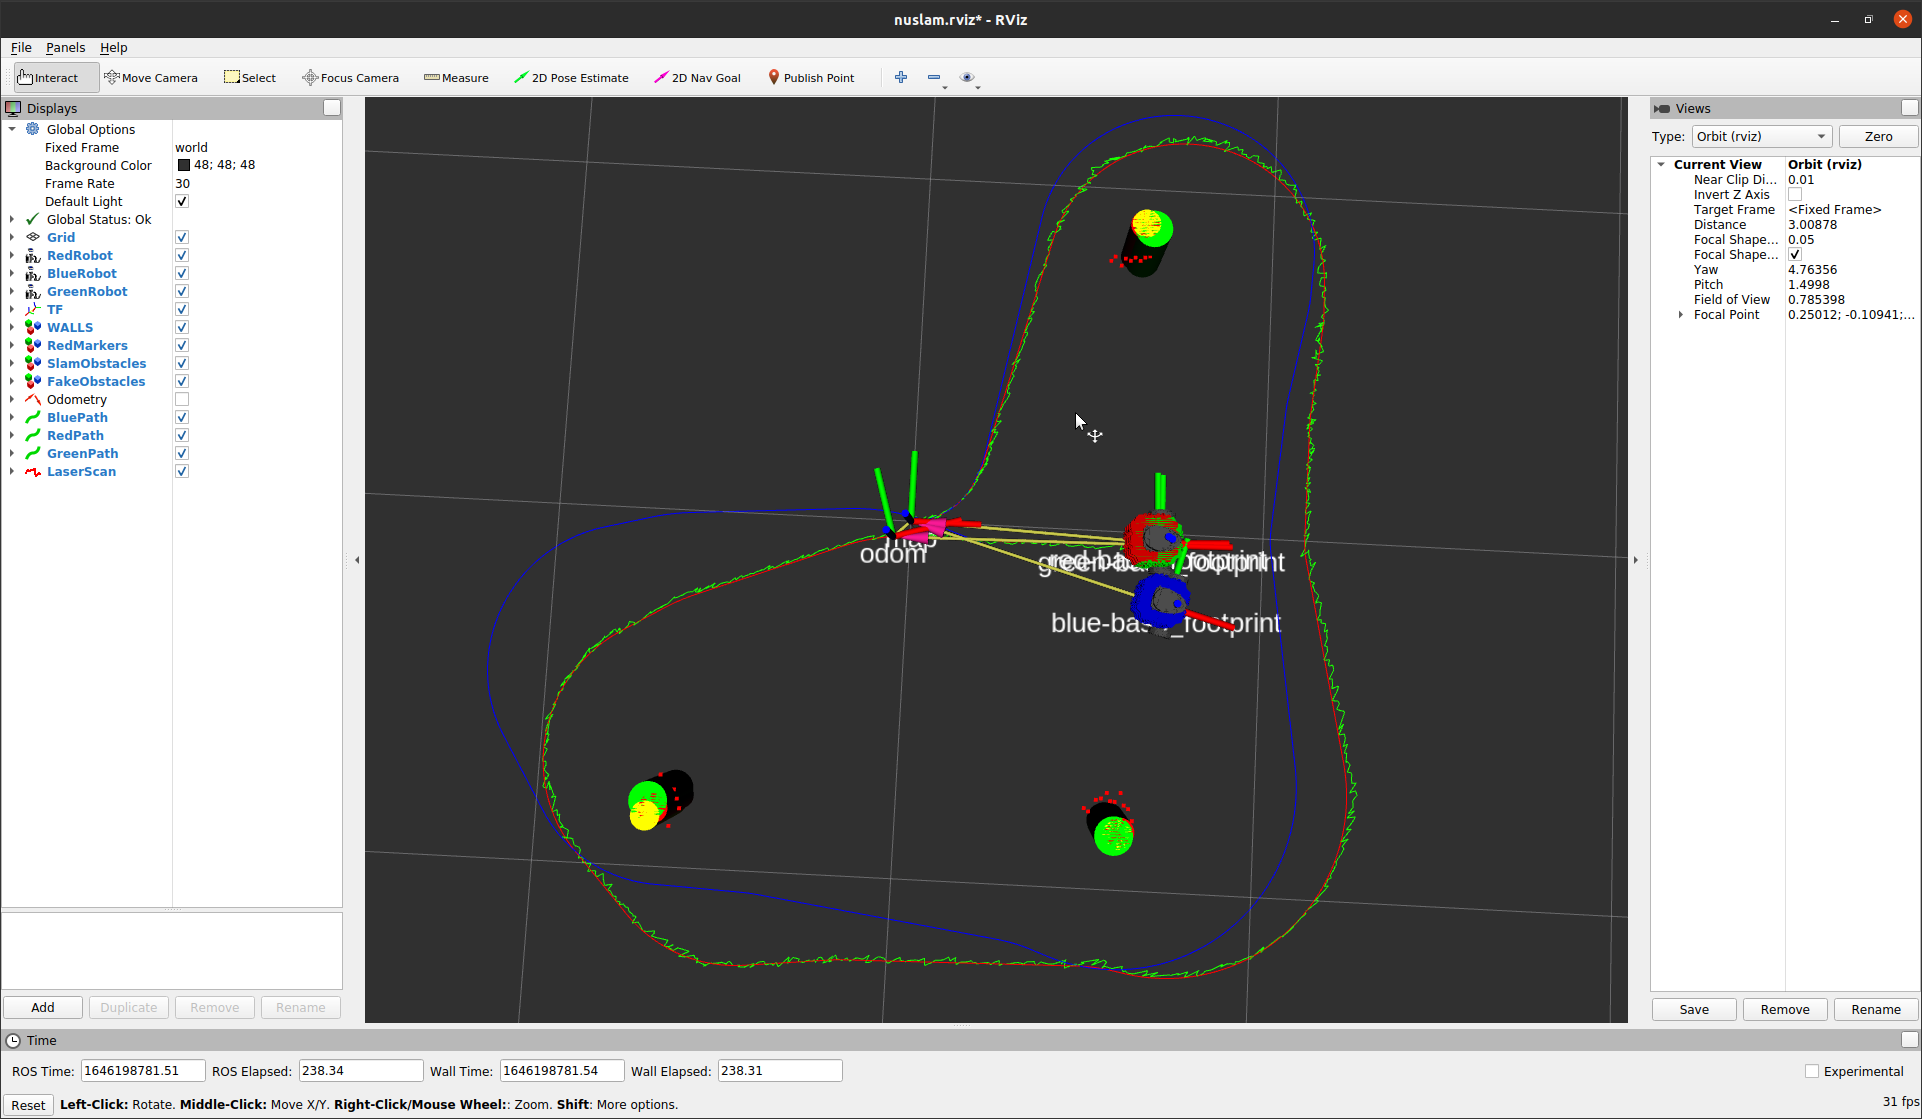
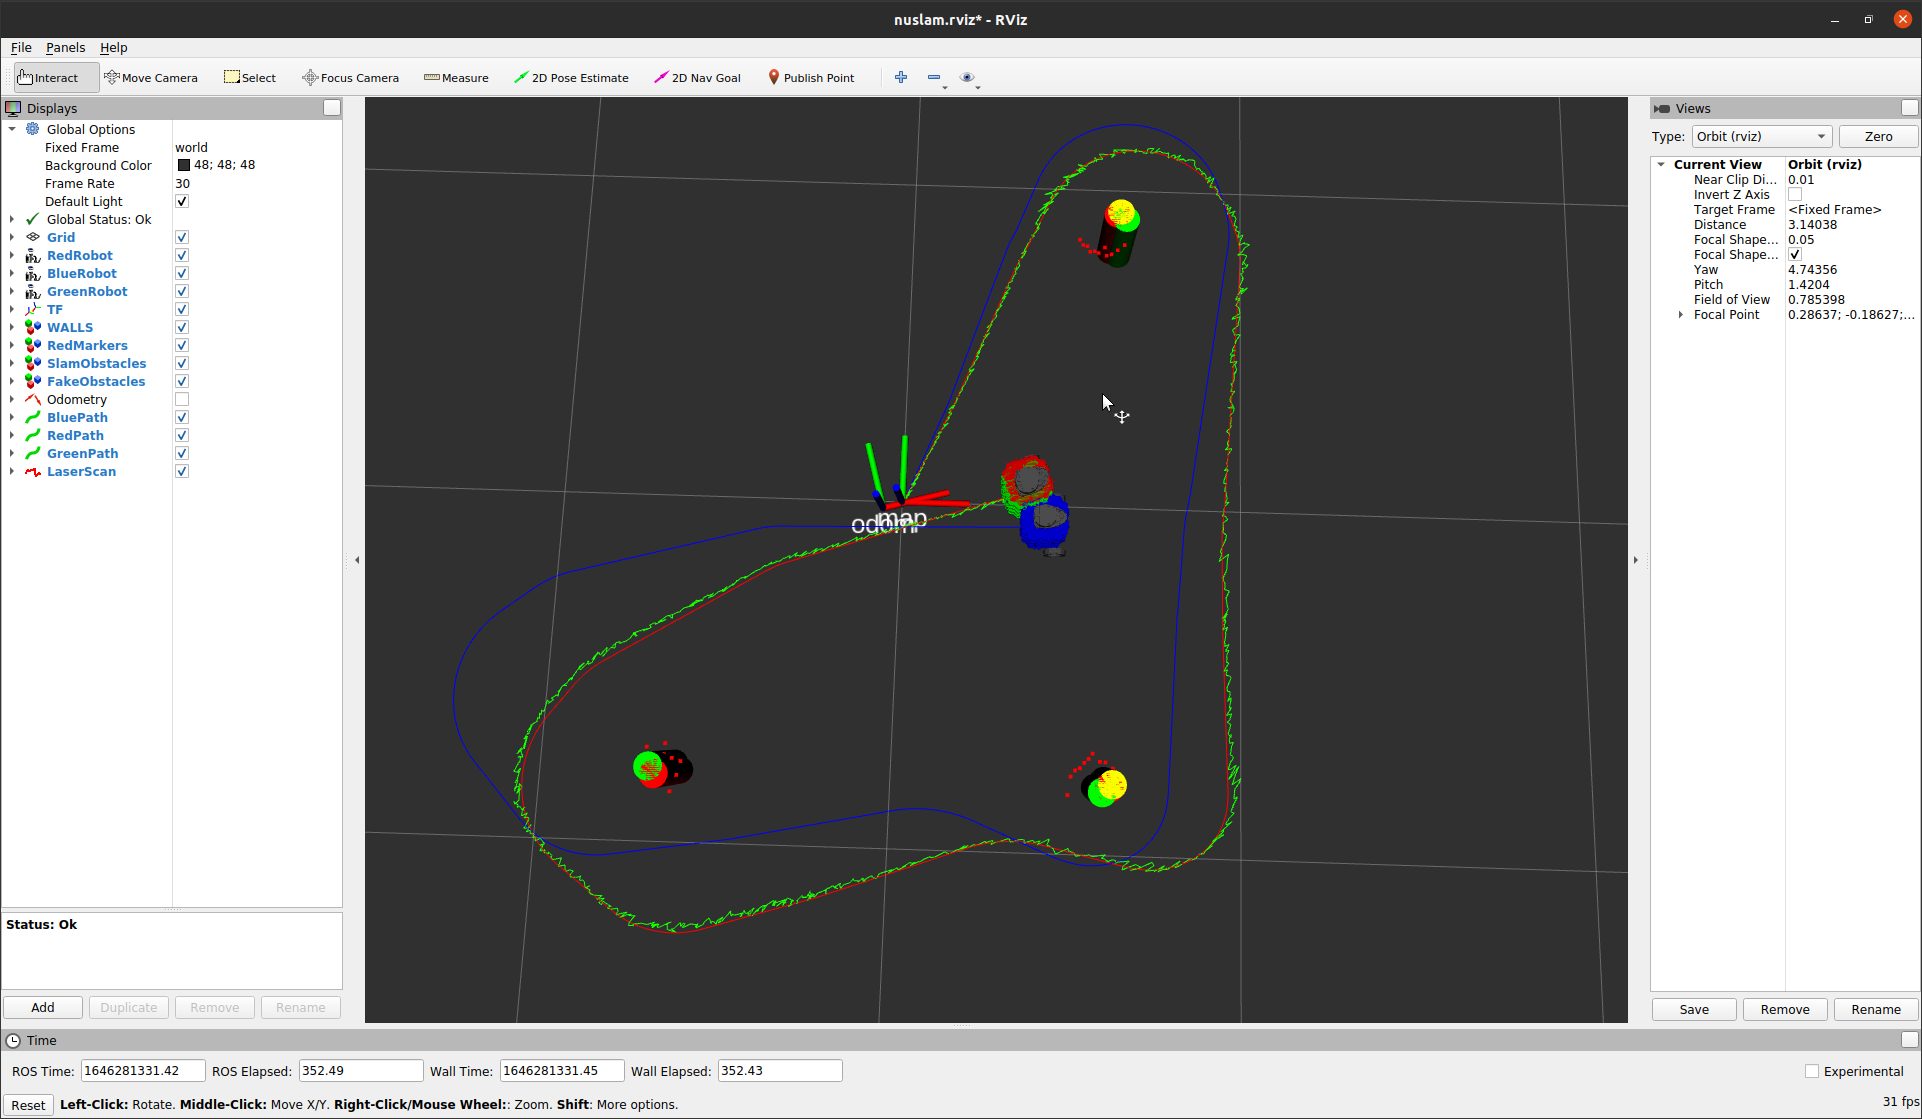
new picture

diff --git a/nuslam/src/slam.cpp b/nuslam/src/slam.cpp
@@ -57,13 +57,13 @@ class SLAM
             loadParams();
             rate = 500;
             //set frame ids and initial position of robot
-            odom.header.frame_id = "odom";
+            odom.header.frame_id = odom_id;
             odom.child_frame_id = "green-base_footprint";
             transformStamped.header.frame_id = "world";// for blue robot
             transformStamped.child_frame_id = "blue-base_footprint";// for blue robot
             transformStamped_mo.header.frame_id = "map";// for green robot
-            transformStamped_mo.child_frame_id = "odom";// for green robot
-            transformStamped_green.header.frame_id = "odom";// for green robot
+            transformStamped_mo.child_frame_id = odom_id;// for green robot
+            transformStamped_green.header.frame_id = odom_id;// for green robot
             transformStamped_green.child_frame_id = "green-base_footprint";// for green robot
             nh.getParam("/robot",robot_coords);
             current_config.x = robot_coords.at(0);
@@ -132,6 +132,8 @@ class SLAM
         ///
         void loadParams()
         {
+            nh.getParam("/radius",radius);
+
             if(!nh.getParam("/odom_id",odom_id)){
                 ROS_INFO_STREAM("Please make sure the parameters are correct! for odom");
                 ros::shutdown();
@@ -258,8 +260,8 @@ class SLAM
                 fake_marker.markers[i].pose.orientation.z = 0.0;
                 fake_marker.markers[i].pose.orientation.w = 1.0;
 
-                fake_marker.markers[i].scale.x = (2*0.05);
-                fake_marker.markers[i].scale.y = (2*0.05);
+                fake_marker.markers[i].scale.x = (2*radius);
+                fake_marker.markers[i].scale.y = (2*radius);
                 fake_marker.markers[i].scale.z = 0.25;
                 
                 fake_marker.markers[i].color.r = 0.0;
@@ -423,6 +425,7 @@ class SLAM
     uint32_t shape;
     visualization_msgs::MarkerArray fake_marker;
     ros::Publisher fake_marker_pub;
+    double radius;
     
 };
 

diff --git a/nusim/src/nusim.cpp b/nusim/src/nusim.cpp
@@ -109,15 +109,15 @@ class Sim
             marker_pub  = nh.advertise<visualization_msgs::MarkerArray>("/nusim/obstacles/markerArray", 1, true);
             fake_marker_pub  = nh.advertise<visualization_msgs::MarkerArray>("/nusim/obstacles/Fake_markerArray", 1, true);
             walls_pub  = nh.advertise<visualization_msgs::MarkerArray>("/nusim/walls/walls", 1, true);
-            encoder_pub  = nh.advertise<nuturtlebot_msgs::SensorData>("red/sensor_data", 10, true);
-            wheel_cmd_sub = nh.subscribe("red/wheel_cmd", 100, &Sim::wheel_cmd_callback, this);
-            path_pub  = nh.advertise<nav_msgs::Path>("nusim/path", 10, true);
-            fake_sensor_pub  = nh.advertise<sensor_msgs::LaserScan>("nusim/laser_scan_data", 10, true);
+            encoder_pub  = nh.advertise<nuturtlebot_msgs::SensorData>("/red/sensor_data", 10, true);
+            wheel_cmd_sub = nh.subscribe("/red/wheel_cmd", 100, &Sim::wheel_cmd_callback, this);
+            path_pub  = nh.advertise<nav_msgs::Path>("/nusim/path", 10, true);
+            fake_sensor_pub  = nh.advertise<sensor_msgs::LaserScan>("/nusim/laser_scan_data", 10, true);
         
             
             
-            reset_service = nh.advertiseService("nusim/reset", &Sim::reset, this);
-            teleport_service = nh.advertiseService("nusim/teleport", &Sim::teleport, this);
+            reset_service = nh.advertiseService("/nusim/reset", &Sim::reset, this);
+            teleport_service = nh.advertiseService("/nusim/teleport", &Sim::teleport, this);
             make_arena();
             timer = nh.createTimer(ros::Duration(1/rate), &Sim::main_loop, this);
             timer_fake = nh.createTimer(ros::Duration(1.0/5.0), &Sim::fake_loop, this);
